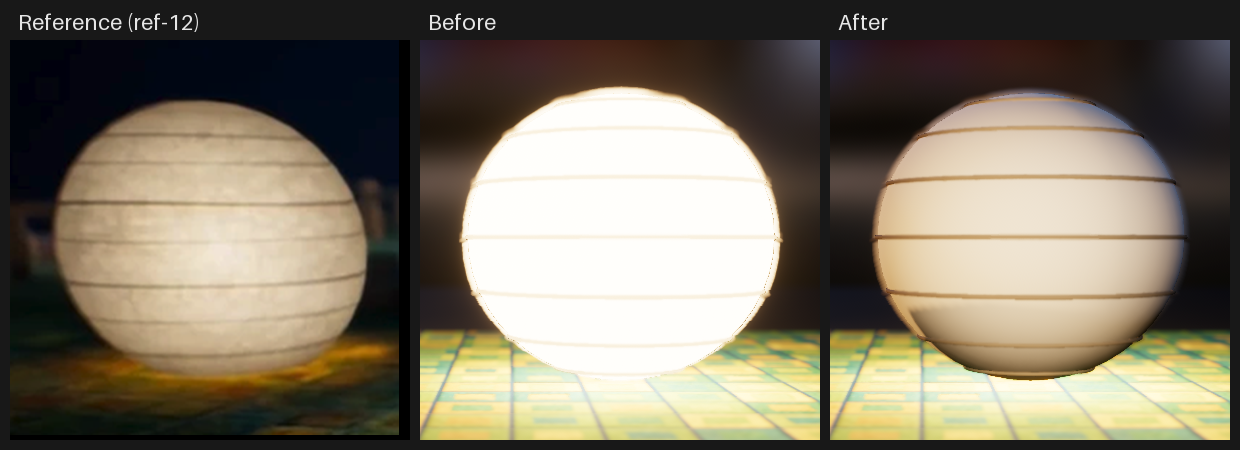
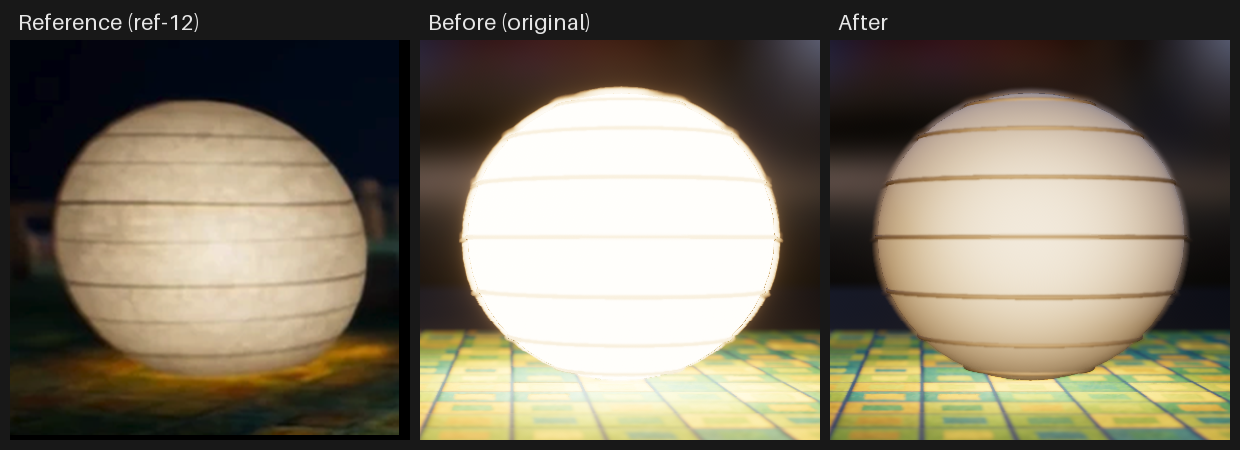
Docs: lantern v2 before/after (reference, original, v2) and wide rug view, with pool, band and level numbers

diff --git a/docs/design/lantern/README.md b/docs/design/lantern/README.md
@@ -5,66 +5,147 @@ Paul's note on the playroom render (2026-11-10): the sphere lamps are over brigh
 off-white, the ribs show across the whole sphere, the centre is a little brighter than the edges and
 the pool on the rug is modest. Ours was a clipped white disc with washed-out ribs and a bloom halo.
 
-- `lantern-before-after.png`: reference, before and after, each scaled to the same lantern diameter
-  (308 px). Ours is the small lantern in the playroom `blocks` view.
-- `lantern-wide-before-after.png`: the playroom `rug` view, before and after.
+Two passes, both on 2026-11-10:
 
-Both shots are native, High quality:
+- **v1** took the shade out of clipping and added an N·V falloff.
+- **v2** followed Paul's review of v1. It dims the pool on the rug, with the room's other lights
+  holding the overall level, and makes the shade read as paper lit from inside.
+
+Images:
+
+- `lantern-before-after.png`: reference, original before, and v2 after, each scaled to the same
+  lantern diameter (308 px). Ours is the small lantern in the playroom `blocks` view.
+- `lantern-wide-before-after.png`: the playroom `rug` view, original before and v2 after.
+
+All shots are native, High quality:
 `parble --scenario playroom --view blocks|rug --quality high --screenshot … --screenshot-after 5 --exit-after 6`.
 
 ## Change
 
-The shade was emitting 30 cd/m² of warm amber, about 30 times past the ACES fitted shoulder, so
-every pixel clipped and the bloom spilled past the silhouette. The fix is in the shade and ribs
-only (`crates/parble-render/src/playroom.rs`):
+All of it is in `crates/parble-render/src/playroom.rs`, `lantern.wesl` and `palette.rs`. Bloom is
+not touched: `BLOOM_INTENSITY` is 0.08 on every tier.
 
-- Paper emissive goes from 30 to 2.2 (`LANTERN_PAPER_NITS`). Its colour moves from warm amber to
-  `LANTERN_PAPER` (`palette.rs`), which is amber a quarter of the way to white.
-- Rib emissive goes from 5 to 0.8 (`LANTERN_RIB_NITS`), so the ribs read as darker lines.
-- The shade and ribs use `LanternMaterial`, which is StandardMaterial plus `lantern.wesl`. The
-  shader scales the emissive by `mix(edge, 1, (N·V)^power)`, with edge 0 and power 2, so the paper
-  is brightest face on and dims towards the silhouette.
-- The lantern point lights (26,000 and 14,000 lm), the lamp and the bloom settings are unchanged
-  (`BLOOM_INTENSITY` 0.08 on every tier).
+| What | Original | v1 | v2 |
+|---|---|---|---|
+| Paper emissive (`LANTERN_PAPER_NITS`) | 30 × warm amber | 2.2 × `LANTERN_PAPER` | 1.2 × `LANTERN_PAPER` |
+| Rib emissive (`LANTERN_RIB_NITS`) | 5 | 0.8 | 0.45 |
+| Falloff `mix(edge, 1, (N·V)^power)` | none | edge 0, power 2 | edge 0.15, power 1 |
+| Inner glow `hot · (N·V)^hot_power` | none | none | hot 1.6, power 5 |
+| Paper albedo (linear) | 0.89, 0.79, 0.64 | same | 0.312, 0.276, 0.223 (× 0.35) |
+| Rib albedo (linear) | 0.21, 0.15, 0.09 | same | 0.086, 0.059, 0.036 (× 0.4) |
+| Shade receives shadows | yes | yes | no (`NotShadowReceiver`) |
+| Lantern point lights (`LANTERN_LIGHT_SCALE`) | 26,000 / 14,000 lm | same | × 0.25 (6,500 / 3,500 lm) |
+| Moon (`MOON_LUX_SCALE`) | 1,200 lux | same | × 2.2 (2,640 lux) |
+| Rim (`RIM_LUX`) | 1,500 lux | same | 1,800 lux |
+| Lamp (`LAMP_LUMENS_SCALE`) | 15,000 lm | same | × 3 (45,000 lm) |
+| Ambient (`GlobalAmbientLight`) | 2.0 | same | 6.0 |
+| Probe (`ENV_INTENSITY`) | 15 | same | 22.5 |
+
+`LANTERN_PAPER` is warm amber a quarter of the way to white. The lumens in
+`assets/playroom/layout.json` stay as they were, because `blender/playroom/probe.py` bakes the
+lantern and lamp emission from them. The scales are applied in code, so the baked probe is not
+stale relative to the layout.
+
+### The dark band near the base (v1)
+
+I checked three candidate causes:
+
+- **The falloff.** It is radial, so it cannot make a top-to-bottom band. With the falloff off, the
+  low and mid bands differ by only 6 luminance.
+- **The inner point light.** It does not light the shade: the light sits behind the outer surface.
+  With the paper albedo at zero, the low band does not change (166).
+- **Room light and shadows.** These are the cause. The moon and lamp lit the top half of the
+  near-white albedo paper (the up band fell from 199 to 177 with the albedo at zero). The lower
+  half sat in cast shadow: with `NotShadowReceiver`, the low band rose from 166 to 181.
+
+v2 gives the paper a low albedo and stops it receiving shadows. The low band is now 14 below the
+up band, down from 33.
 
 ## Measurements
 
-Measured with Pillow on 8-bit sRGB. The shade is an ellipse mask at 0.92 of the lantern radius. The
-centre is d ≤ 0.3 radii and the edge is 0.75 to 0.92 radii. Rib contrast is the mean dip of the rib
-rows below the paper either side, in the central vertical band. Bloom reach is the distance past the
-silhouette, sideways, until luminance is within 5 of the background. Halo is the luminance of the
-ring 1.02 to 1.25 radii above the lantern minus the ring at 1.6 to 1.9 radii.
+Measured with Pillow on 8-bit sRGB:
 
-| Metric | Reference | Before | After |
+- The shade is an ellipse mask at 0.92 of the lantern radius. The centre is d ≤ 0.3 radii and the
+  edge is 0.75 to 0.92 radii.
+- The up, mid and low bands are the central 0.8-radius-wide column at 0.55 to 0.85 radii above
+  centre, ±0.15 radii, and 0.55 to 0.85 radii below centre.
+- Rib contrast is the mean dip of the rib rows below the paper either side, in the central band.
+- Bloom reach is the distance past the silhouette, sideways, until luminance is within 5 of the
+  background.
+- The halo is the luminance of the ring 1.02 to 1.25 radii above the lantern, minus the ring at
+  1.6 to 1.9 radii.
+- The pool is the rug from 1.0 to 1.9 radii below the lantern centre.
+
+### Close shot (`blocks` view)
+
+| Metric | Reference | Original | v1 | v2 |
+|---|---|---|---|---|
+| Clipped shade pixels (all channels ≥ 250) | 0 % | 87.4 % | 0 % | 0 % |
+| Shade mean luminance | 182 | 253 | 195 | 198 |
+| Shade mean RGB | 201, 180, 149 | 255, 253, 249 | 212, 193, 166 | 214, 196, 171 |
+| Centre luminance | 218 | 253 | 224 | 228 |
+| Edge luminance | 155 | 253 | 165 | 172 |
+| Centre-to-edge ratio | 1.41 | 1.00 | 1.36 | 1.33 |
+| Up / mid / low band | n/a | 253 / 253 / 253 | 199 / 221 / 166 | 196 / 226 / 182 |
+| Rib contrast | 0.10 | 0.05 | 0.26 | 0.23 |
+| Bloom reach past the silhouette | 0.17 radii | 0.46 radii | 0.05 radii | about 0.05 radii |
+| Halo above the lantern | 12 | 28 | 0 | 0 |
+| Pool on the rug under the lantern | 43 | 180 | 179 | 130 |
+| Rug away from the lantern (bottom left) | n/a | 105 | 105 | 91 |
+| Arch block | n/a | 145 | 144 | 95 |
+| Block tower | n/a | 151 | 151 | 101 |
+| Whole frame | n/a | 104.2 | 96.4 | 80.6 |
+
+### Wide shot (`rug` view)
+
+| Metric | Original | v1 | v2 |
 |---|---|---|---|
-| Clipped shade pixels (all channels ≥ 250) | 0 % | 87.4 % | 0 % |
-| Shade mean luminance | 182 | 253 | 195 |
-| Shade mean RGB | 201, 180, 149 | 255, 253, 249 | 212, 193, 166 |
-| Centre luminance | 218 | 253 | 224 |
-| Edge luminance | 155 | 253 | 165 |
-| Centre-to-edge ratio | 1.41 | 1.00 | 1.36 |
-| Ribs found in the central band | 10 | 5 | 5 |
-| Rib contrast | 0.10 | 0.05 | 0.26 |
-| Bloom reach past the silhouette | 0.17 radii | 0.46 radii | 0.05 radii |
-| Halo above the lantern | 12 | 28 | 0 |
-| Floor mean luminance under the lantern | 43 | 180 | 179 |
+| Whole frame mean | 61.8 | 56.3 | 62.7 |
+| Rug (rows 430 and below) | 51.5 | 50.3 | 67.2 |
+| Toy blocks (tower and arch) | 103.6 | 102.4 | 77.3 |
+| Pool under the big lantern | 90.4 | 75.7 | 67.8 |
+| Pool under the right lantern | 197.5 | 196.1 | 156.5 |
 
-The reference is a small, soft photo (215 × 208 px, JPEG). Its blur lowers the measured rib
-contrast and lifts the halo and bloom reach, so the after numbers there are expected to sit on the
-other side of it.
+## Trade-offs
 
-Wide `rug` view, whole-frame mean luminance: 61.8 before, 56.3 after. The rug alone (rows 430 and
-below) is 51.5 before and 50.3 after. The drop is the lanterns' own pixels and their bloom haze;
-the light the lanterns and lamp put on the rug is unchanged.
+**The pool cannot reach 43 while the room holds its level.** With the lantern lights off entirely,
+the floor under the small lantern is still 46: that is the room's other light. Any fill that holds
+the room's level raises the floor under the lantern too.
 
-## Not changed, and why
+At 0.25 × the lumens the pool falls from 180 to 130. Relative to the rug around it, that is 1.43 ×,
+down from 1.71 ×. I compared 0.1 to 0.4 ×, each with fill compensation.
 
-- **The pool of light on the rug.** It is the lanterns' point lights, not the shade emissive. With
-  the lantern lights at zero the floor under the small lantern falls from 179 to 46, so the lights
-  make the pool. Scaling them by 0.65 only took it to 159, while darkening the whole playroom, so
-  the lumens stay as they were. Our rug is a bright yellow-green tile and the reference's is dark,
-  so their absolute floor values do not compare.
+The fill evens the scene out rather than restoring every region:
+
+- The wide-shot mean holds: 62.7 against 61.8 originally.
+- The open rug in the wide shot gets brighter, 67 against 51.
+- The blocks, which the lanterns lit up close, get darker: 77 against 104 in the wide shot, and 95
+  against 145 for the arch in the close shot.
+- The moon is pale blue, so the room reads a little cooler than before.
+
+The reference's rug is dark and ours is a bright yellow-green tile, so the absolute floor values do
+not compare directly.
+
+## Moved references
+
+The `showcase` scene stands on the playroom rug under these lights, so its `make shots-test`
+references moved. Against the old references, v2 diffed 0.0876 to 0.0893 across the four tiers
+(bar 0.03), and v1 had diffed 0.0071 to 0.0077.
+
+I regenerated `docs/shots/p1-t8-showcase-{low,medium,high,ultra}.png` with
+`python3 scripts/shots/p1t8.py --update showcase` (the script's documented update path). Against
+the new references the diffs are 0.0011 to 0.0015. The framing is the same; the lantern, its pool
+and the light on the track changed.
+
+Nothing else moved:
+
+- The lineup, with the marble glow cores, diffs 0.0005 to 0.0007.
+- stress2000 diffs 0.0044 to 0.0048.
+- The mechanisms checks pass.
+
+## Not changed
+
 - **Rib count.** The reference has about 10 rib lines and our shade has 7. The geometry is
   unchanged.
 - **The floor lamp's conical shade** (emissive 40) still clips in the rug view. It is not a sphere
-  lamp, so it is outside this change.
+  lamp. Its light was raised 3 × as fill.
